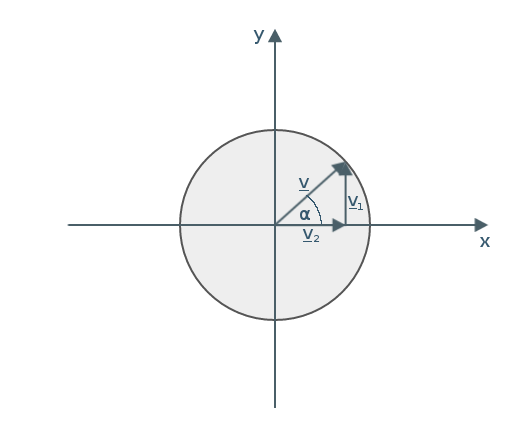
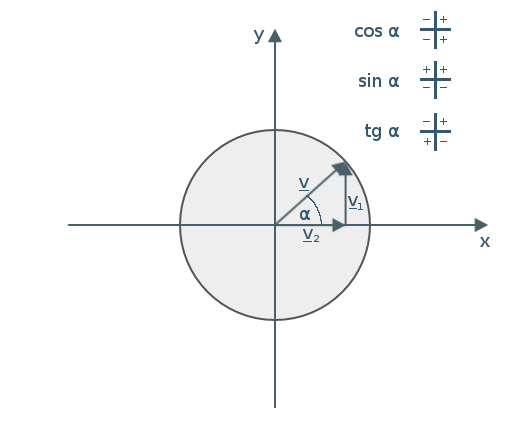
kép javítása, és tételbe helyezése

diff --git a/matematika/szobeli/emelt/derekszogu_haromszogek.md b/matematika/szobeli/emelt/derekszogu_haromszogek.md
@@ -56,7 +56,7 @@ i, és j x, y tengelyen egymással 90°-os szöget bezáró egységvektorok. v1,
 [latex] v_{1}^{2} + v_{2}^{^2} = v^2[/latex]
 [latex] \cos^2 \alpha + \sin^2 \alpha = 1[/latex]
 
-![egysegvektor](http://i.imgur.com/iHNfRvR.png)
+![egysegvektor](http://i.imgur.com/uhc9uwP.png)
 
 Def: Az alfa szög koszinuszának nevezzük annak az egységnyi hosszúságú vektornak az első koordinátáját, mely az i bázisvektorral alfa szöget zár be.
 
